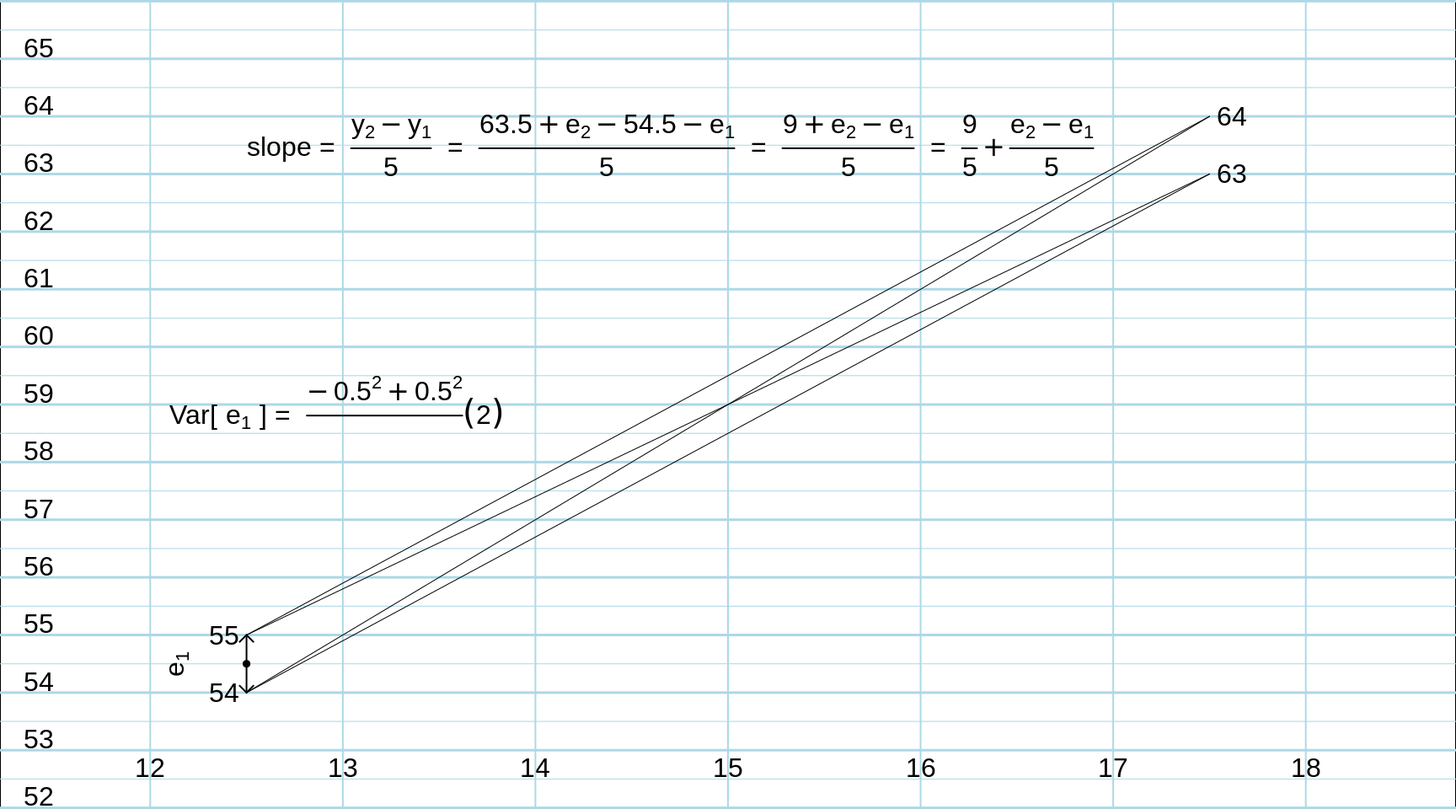
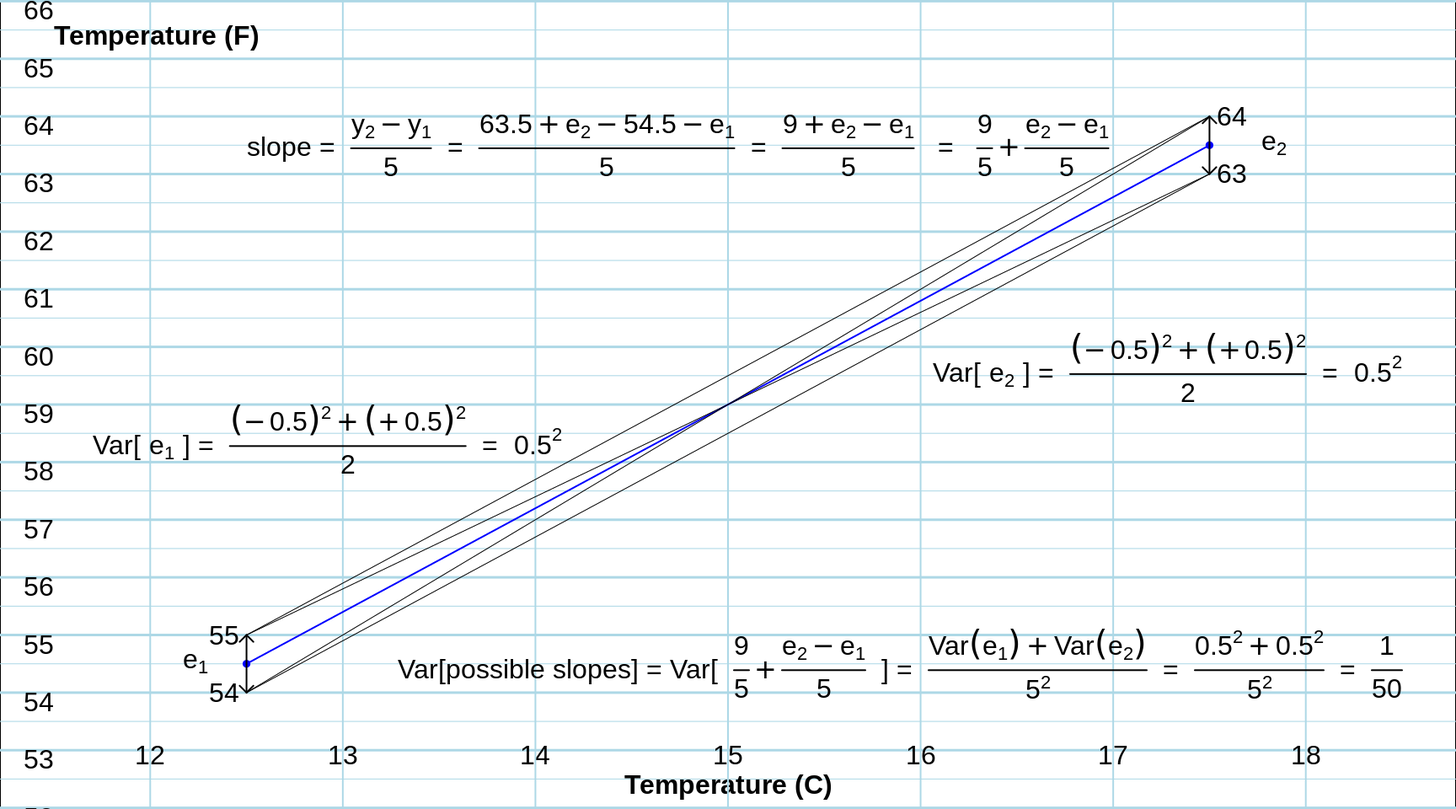
Update the book

diff --git a/RandomVariables.html b/RandomVariables.html
@@ -200,6 +200,7 @@ code > span.in { color: #60a0b0; font-weight: bold; font-style: italic; } /* Inf
 <li class="chapter" data-level="12.7.3" data-path="RandomVariables.html"><a href="RandomVariables.html#difference-of-2-rvs"><i class="fa fa-check"></i><b>12.7.3</b> Difference of 2 RVs</a></li>
 </ul></li>
 <li class="chapter" data-level="12.8" data-path="RandomVariables.html"><a href="RandomVariables.html#linear-combinations-of-rvs-regression-slopes"><i class="fa fa-check"></i><b>12.8</b> Linear combinations of RVs (regression slopes)</a></li>
+<li class="chapter" data-level="12.9" data-path="RandomVariables.html"><a href="RandomVariables.html#summary-slides-1"><i class="fa fa-check"></i><b>12.9</b> Summary Slides</a></li>
 </ul></li>
 <li class="chapter" data-level="13" data-path="distributions.html"><a href="distributions.html"><i class="fa fa-check"></i><b>13</b> Distributions</a><ul>
 <li class="chapter" data-level="13.1" data-path="distributions.html"><a href="distributions.html#objectives-2"><i class="fa fa-check"></i><b>13.1</b> Objectives</a></li>
@@ -858,19 +859,24 @@ Figure 12.7: Differences in mean lengths of n randomly selected words from each 
 <p>In <em>non-experimental</em> research especially, the focus is typically on a fitted regression slope/coefficient, rather that on the simple difference <span class="math inline">\(\bar{y}_1\)</span> - <span class="math inline">\(\bar{y}_0\)</span> between the means of the <span class="math inline">\(y\)</span>s observed at each of two investigator-chosen values (<span class="math inline">\(X=1\)</span> and <span class="math inline">\(X=0\)</span>) of the determinant (<span class="math inline">\(X\)</span>) being studied.</p>
 <p>Even if the estimator does not have a closed form, the fitted slope(s)/coefficient(s) are linear combinations of the <span class="math inline">\(y\)</span>’s and the <span class="math inline">\(x\)</span>’s. Thus, since each of the <span class="math inline">\(n\)</span> <span class="math inline">\(y\)</span>’s contains a random element, the slope (<span class="math inline">\(\hat{\beta}\)</span>) is an <span class="math inline">\(x\)</span>-based linear combination of <span class="math inline">\(n\)</span> random variables.</p>
 <p>Thus one can view all variances (and thus all standard errors) in a unified way, and not have to learn separate laws for separate chapters. To see how this unified view avoids the typical ‘silo’ approach to statistical tecnniques, see <a href="http://www.medicine.mcgill.ca/epidemiology/hanley/Reprints/UniversalSampleSize.pdf">Sample Size, Precision and Power Calculations: A Unified Approach</a>. [Software developers who thrive on separate ‘niche’ markets are threatened by this parsimonious approach, just as are those who write 800-page textbooks with separate chapters for t-tests,l proportions, regression, multiple regression, logiostic regression, Cox regression, survival analysis,etc.]</p>
-<p>In the past, when introducing simple linear regression, it was common to learn the formula by heart, and use it compute by hand, the standard error for a fitted slope, namely <span class="math display">\[SE[ \hat{\beta} ] = \sqrt{\frac{\sum (y-\bar{y})(x-\bar{x})}{ \sum (x-\bar{x})^2}}.\]</span> Sadly, <a href="http://www.medicine.mcgill.ca/epidemiology/hanley/Reprints/SimpleMultipleLinearRegressionSampleSize.pdf">this formidable formula hides what is going on</a>.</p>
-<p>To truly understand what is going on, lets consider a very simple example. A student from a country that uses the Fahrenheit (F) system moves to Montreal, and wishes to know how to translate the outside temperature, expressed as the number of degrees Celsius (C) and shown in the Metro, and heard on radio stations, back into the F scale (s)he is familiar with. The student knows that the conversion is of the form F = <span class="math inline">\(\alpha\)</span> + <span class="math inline">\(\beta \times C\)</span> but, rather than look them up on Google, decides to estimate <span class="math inline">\(\alpha\)</span> and <span class="math inline">\(\beta\)</span> from pairs of (C,F) readings, taking the C readings directly from the Metro screen, and the F ones from his/her own portable thermometer. Suppose that the C readings are displayed to 1 decimal place, but that the F thermometer only displays the F to the nearest integer (or more generally, has a random error of -0.5F in half the occasions, and +0.5F in the other half).</p>
-<p>Now, knowing that one it just takes 2 data points to draw a line, the student takes F measurements on two occasions, once when the displayed temperature is 12.5 C and one when it is 17.5 C. (The student didn’t know that when the real temperature was very close to xx.5 F, it had a 50% chance of being rounded up to xx+1 F, thereby creating an error of +0.5 F, and a 50% chance of being rounded down to xx-1 F, and producing an error of -0.5 F.)</p>
-<p>Given that these two C settings correspond to 54.5 F and 63.5 F, what are the possible <span class="math inline">\(\beta\)</span> estimates? And, how variable are they?</p>
-<p>The 4 possibilities, shown below, are (64-55)/5, (64-54)/5, (63-55)/5, and (63-54)/5, or, when sorted, 1.6, 1.8, 1.8 and 2.0, each with probability 1/4, so that the variance is <span class="math display">\[Var[ \hat{\beta} ] =  \frac{(1.6 - 1.8)^2 + (1.8 - 1.8)^2  + (1.8 - 1.8)^2 + (2.0 - 1.8)^2}{4} = 0.02,\]</span> and the SE is <span class="math inline">\(\sqrt{0.02} = 0.14\)</span> degrees F per degree C.</p>
-<p>Also shown in the diagram is the ‘anatomy’ of the ‘random slope’. The possible slopes are displayed as a single expression in which the 2 random elements (i.e the 2 random variables, or the two ‘errors’ e<span class="math inline">\(_1\)</span> and e<span class="math inline">\(_2\)</span>) are isolated. The random slope is in the form of a constant (9/5) plus another constant (1/5) times the difference of two independent random errors. Applying all of the variance rules above, we have that <span class="math display">\[Var[random  \ slope] = (1/5)^2 \times ( Var[e_1] + Var[e_2]).\]</span></p>
+<p>In the past, when first introduced to simple linear regression, it was common to learn the estimator formula and the Variance formula by heart, and use them to compute the fitted slope and the the standard error for a fitted slope by hand, <span class="math display">\[\hat{\beta} = \frac{\sum (y-\bar{y})(x-\bar{x})}{ \sum (x-\bar{x})^2} \ ; \ \ Var[ \hat{\beta} ] = \frac{\sigma_e^2}{ \sum (x-\bar{x})^2} \ ; \ SE[ \hat{\beta} ] \ = \sqrt{Var[ \hat{\beta} ]} \ .\]</span> In the variance formula, <span class="math inline">\(\sigma_e^2\)</span> is the variance in the ‘errors’ in the <span class="math inline">\(y\)</span>’s. In practice, we have to estimate this quantirty, but in our example, for disdactic purposes, we will pretend to ‘know’ its value.</p>
+<p>Sadly, <a href="http://www.medicine.mcgill.ca/epidemiology/hanley/Reprints/SimpleMultipleLinearRegressionSampleSize.pdf">these formidable formulaa hide what is going on</a>.</p>
+<p>To truly understand what is going on, lets consider a <strong>very simple example</strong> where we can <em>see</em> what is happening. A student from a country that uses the Fahrenheit (F) system moves to Montreal, and wishes to know how to translate the outside temperature, expressed as the number of degrees Celsius (C) and shown in the Metro, and heard on radio stations, back into the F scale (s)he is familiar with. The student knows that the conversion is of the form F = <span class="math inline">\(\alpha\)</span> + <span class="math inline">\(\beta \times C\)</span> but, rather than look them up on Google, decides to estimate <span class="math inline">\(\alpha\)</span> and <span class="math inline">\(\beta\)</span> from pairs of (C,F) readings, taking the C readings directly from the Metro screen, and the F ones from his/her own portable thermometer. Suppose that the C readings are displayed to 1 decimal place, but that the F thermometer only displays the F to the nearest integer.</p>
+<p>Now, knowing that one it just takes 2 data points to draw a line, the student takes F measurements on two occasions, once when the displayed temperature is 12.5 C and one when it is 17.5 C. (The student didn’t know that when the real temperature was very close to xx.5 F, it had a 50% chance of being rounded up to xx+1 F, thereby creating an error of +0.5 F, and a 50% chance of being rounded down to xx-1 F, and producing an error of -0.5 F. Thus, the variance of each error is <span class="math inline">\((-0.5)^2 \times (1/2)\)</span> + <span class="math inline">\((+0.5)^2 \times (1/2)\)</span> = <span class="math inline">\(0.5^2,\)</span> and the SD is 0.5. (In the computer exercises, we will treat a broader type of random errors in the F readings).</p>
+<p>Given that these two C settings correspond to 54.5 F and 63.5 F, but that the true temperature may be slightly on one side or the other of thse two values, what are the possible <span class="math inline">\(\beta\)</span> estimates? And, how variable would they be?</p>
+<p>The 4 possibilities, shown as the slopes of the 4 fitted lines shown in black below, are (64-55)/5, (64-54)/5, (63-55)/5, and (63-54)/5, or, when sorted, 1.6, 1.8, 1.8 and 2.0 degrees F per degree C, each with probability 1/4, so that the variance of the equally likely slopes is <span class="math display">\[Var[ \hat{\beta} ] =  \frac{(1.6 - 1.8)^2 + (1.8 - 1.8)^2  + (1.8 - 1.8)^2 + (2.0 - 1.8)^2}{4} = \frac{1}{50} \ =  \ 0.02,\]</span> and the SE is <span class="math inline">\(\sqrt{0.02} = 0.14\)</span> degrees F per degree C.</p>
+<p>Also shown in the diagram is the <strong>‘anatomy’ of the ‘random slope’</strong>. The possible slopes are displayed as a single expression in which the 2 random elements (i.e the 2 random variables, or the two ‘errors’ e<span class="math inline">\(_1\)</span> and e<span class="math inline">\(_2\)</span>) are isolated. The random slope is in the form of a constant (9/5) plus another constant (1/5) times the difference of two independent random errors. Applying all of the variance rules above, we have that <span class="math display">\[Var[random  \ slope] = (1/5)^2 \times ( Var[e_1] + Var[e_2])  \ = \ \frac{1}{50} \ .\]</span></p>
 <div class="figure" style="text-align: center"><span id="fig:unnamed-chunk-63"></span>
-<img src="statbook_files/figure-html/unnamed-chunk-63-1.png" alt="Estimating the using s." width="864" />
+<img src="statbook_files/figure-html/unnamed-chunk-63-1.png" alt="The 4  lines (in black) fitted to the 4 possible and equally likely pairs of data points (The  &lt;unknown to us&gt; 'true' values are shown in blue). By algebraicly isolating the contributions of the 2 random errors in F to the variation in the 4 slopes, the variance of the (random) slopes is easily computed using the laws for the variance of a combination of 2 independent random variables." width="864" />
 <p class="caption">
-Figure 12.8: Estimating the using s.
+Figure 12.8: The 4 lines (in black) fitted to the 4 possible and equally likely pairs of data points (The <unknown to us> ‘true’ values are shown in blue). By algebraicly isolating the contributions of the 2 random errors in F to the variation in the 4 slopes, the variance of the (random) slopes is easily computed using the laws for the variance of a combination of 2 independent random variables.
 </p>
 </div>
-<p>For heuristic reasons, consider first the simplest possible case of just (n =) 2 X locations, Y errors that could equally be +1 or -1 (so that se2 = 1), and estimating a slope (whose true value is B = 4, say) by dividing the observed difference in the 2 y’s by the difference in their X locations. We use ‘y’ to denote an ‘error-containing’ Y. If the two Xs are 1 unit apart, then with errors of +/-1 the resulting values of y will differ by one of (4 - 1 - 1) = 2, (4 - 1 + 1) = 4, (4 +1 - 1) = 4, and (4 + 1 + 1) = 6, each with equal probability. So, the slope estimate is equally likely to be 2, 4, 4, or 6; thus, the error in this estimate is equally likelytobe-2,0,0,or2;andsothesamplingvariancewillbe50%of22 +50%of02 =2.If instead, the Xs are two units apart (as they are in the ‘LONG1’ design), so that 2B = 8, the four equally likely slope estimates will now be 6/2, 8/2, 8/2, and 10/2. Thus, the errors in these estimates are equally likely to be -1, 0, 0, and 1, and so their variance will be 50% of (1)2 + 50% of 02 = 1/ 2, four times smaller than if the readings were only 1 X unit apart.</p>
+<p>The important point of this simple regression example is that even though in practice there would be many more data points, the principle/law used to calculate the sampling variation of a slope based on any number of datapoints remains the same: the slope is still (in this case) an <span class="math inline">\(x\)</span>-based linear combination of <span class="math inline">\(y\)</span>’s, and thus an <span class="math inline">\(x\)</span>-based linear combination of random errors – or more broadly of random deviations from the <span class="math inline">\(x\)</span>-conditional means of the ‘<span class="math inline">\(Y\)</span>’ variables. We will return later to all of the factors that influence the narrowness/width of sampling distributions generally, but you can maybe already see from the ‘algebraicly isolated’ representation of the slope that the more datapoints – and the wider apart they are on the <span class="math inline">\(x\)</span> axis and the smaller the magnitudes of the errors — the more reproducible the slope. The influence of this latter factors is less evident in the textbook formula for the Variance and the SE. This little exercise (next) should help you fiogure out how the factors come into it. JH also covers these is [this piece].</p>
+<p><strong>Exercise</strong>: (i) What if the student took the F readings at two C values that are 10 C (rather than 5 C) apart?, i.e. at 12.5 C and 22.5 C? How would the Variance and the SE be altered? (ii) What if the student took the F readings at four equally spaced C values 5 C apart, i.e., at 7.5 C, 12.5 C, 17.5C and 22.5 C?. If you were limited to <span class="math inline">\(n\)</span> C values, how would you decide where to place them? (iii) What if, rather than <span class="math inline">\(0.5^2\)</span>, the ‘errors’ in F had a variance of <span class="math inline">\(1^2\)</span> or <span class="math inline">\(2^2\)</span>?</p>
+</div>
+<div id="summary-slides-1" class="section level2">
+<h2><span class="header-section-number">12.9</span> Summary Slides</h2>
 
 </div>
 </div>

diff --git a/CI.html b/CI.html
@@ -200,6 +200,7 @@ code > span.in { color: #60a0b0; font-weight: bold; font-style: italic; } /* Inf
 <li class="chapter" data-level="12.7.3" data-path="RandomVariables.html"><a href="RandomVariables.html#difference-of-2-rvs"><i class="fa fa-check"></i><b>12.7.3</b> Difference of 2 RVs</a></li>
 </ul></li>
 <li class="chapter" data-level="12.8" data-path="RandomVariables.html"><a href="RandomVariables.html#linear-combinations-of-rvs-regression-slopes"><i class="fa fa-check"></i><b>12.8</b> Linear combinations of RVs (regression slopes)</a></li>
+<li class="chapter" data-level="12.9" data-path="RandomVariables.html"><a href="RandomVariables.html#summary-slides-1"><i class="fa fa-check"></i><b>12.9</b> Summary Slides</a></li>
 </ul></li>
 <li class="chapter" data-level="13" data-path="distributions.html"><a href="distributions.html"><i class="fa fa-check"></i><b>13</b> Distributions</a><ul>
 <li class="chapter" data-level="13.1" data-path="distributions.html"><a href="distributions.html#objectives-2"><i class="fa fa-check"></i><b>13.1</b> Objectives</a></li>

diff --git a/Probability.html b/Probability.html
@@ -200,6 +200,7 @@ code > span.in { color: #60a0b0; font-weight: bold; font-style: italic; } /* Inf
 <li class="chapter" data-level="12.7.3" data-path="RandomVariables.html"><a href="RandomVariables.html#difference-of-2-rvs"><i class="fa fa-check"></i><b>12.7.3</b> Difference of 2 RVs</a></li>
 </ul></li>
 <li class="chapter" data-level="12.8" data-path="RandomVariables.html"><a href="RandomVariables.html#linear-combinations-of-rvs-regression-slopes"><i class="fa fa-check"></i><b>12.8</b> Linear combinations of RVs (regression slopes)</a></li>
+<li class="chapter" data-level="12.9" data-path="RandomVariables.html"><a href="RandomVariables.html#summary-slides-1"><i class="fa fa-check"></i><b>12.9</b> Summary Slides</a></li>
 </ul></li>
 <li class="chapter" data-level="13" data-path="distributions.html"><a href="distributions.html"><i class="fa fa-check"></i><b>13</b> Distributions</a><ul>
 <li class="chapter" data-level="13.1" data-path="distributions.html"><a href="distributions.html#objectives-2"><i class="fa fa-check"></i><b>13.1</b> Objectives</a></li>

diff --git a/computing01.html b/computing01.html
@@ -200,6 +200,7 @@ code > span.in { color: #60a0b0; font-weight: bold; font-style: italic; } /* Inf
 <li class="chapter" data-level="12.7.3" data-path="RandomVariables.html"><a href="RandomVariables.html#difference-of-2-rvs"><i class="fa fa-check"></i><b>12.7.3</b> Difference of 2 RVs</a></li>
 </ul></li>
 <li class="chapter" data-level="12.8" data-path="RandomVariables.html"><a href="RandomVariables.html#linear-combinations-of-rvs-regression-slopes"><i class="fa fa-check"></i><b>12.8</b> Linear combinations of RVs (regression slopes)</a></li>
+<li class="chapter" data-level="12.9" data-path="RandomVariables.html"><a href="RandomVariables.html#summary-slides-1"><i class="fa fa-check"></i><b>12.9</b> Summary Slides</a></li>
 </ul></li>
 <li class="chapter" data-level="13" data-path="distributions.html"><a href="distributions.html"><i class="fa fa-check"></i><b>13</b> Distributions</a><ul>
 <li class="chapter" data-level="13.1" data-path="distributions.html"><a href="distributions.html#objectives-2"><i class="fa fa-check"></i><b>13.1</b> Objectives</a></li>

diff --git a/computing02.html b/computing02.html
@@ -200,6 +200,7 @@ code > span.in { color: #60a0b0; font-weight: bold; font-style: italic; } /* Inf
 <li class="chapter" data-level="12.7.3" data-path="RandomVariables.html"><a href="RandomVariables.html#difference-of-2-rvs"><i class="fa fa-check"></i><b>12.7.3</b> Difference of 2 RVs</a></li>
 </ul></li>
 <li class="chapter" data-level="12.8" data-path="RandomVariables.html"><a href="RandomVariables.html#linear-combinations-of-rvs-regression-slopes"><i class="fa fa-check"></i><b>12.8</b> Linear combinations of RVs (regression slopes)</a></li>
+<li class="chapter" data-level="12.9" data-path="RandomVariables.html"><a href="RandomVariables.html#summary-slides-1"><i class="fa fa-check"></i><b>12.9</b> Summary Slides</a></li>
 </ul></li>
 <li class="chapter" data-level="13" data-path="distributions.html"><a href="distributions.html"><i class="fa fa-check"></i><b>13</b> Distributions</a><ul>
 <li class="chapter" data-level="13.1" data-path="distributions.html"><a href="distributions.html#objectives-2"><i class="fa fa-check"></i><b>13.1</b> Objectives</a></li>

diff --git a/computing03.html b/computing03.html
@@ -200,6 +200,7 @@ code > span.in { color: #60a0b0; font-weight: bold; font-style: italic; } /* Inf
 <li class="chapter" data-level="12.7.3" data-path="RandomVariables.html"><a href="RandomVariables.html#difference-of-2-rvs"><i class="fa fa-check"></i><b>12.7.3</b> Difference of 2 RVs</a></li>
 </ul></li>
 <li class="chapter" data-level="12.8" data-path="RandomVariables.html"><a href="RandomVariables.html#linear-combinations-of-rvs-regression-slopes"><i class="fa fa-check"></i><b>12.8</b> Linear combinations of RVs (regression slopes)</a></li>
+<li class="chapter" data-level="12.9" data-path="RandomVariables.html"><a href="RandomVariables.html#summary-slides-1"><i class="fa fa-check"></i><b>12.9</b> Summary Slides</a></li>
 </ul></li>
 <li class="chapter" data-level="13" data-path="distributions.html"><a href="distributions.html"><i class="fa fa-check"></i><b>13</b> Distributions</a><ul>
 <li class="chapter" data-level="13.1" data-path="distributions.html"><a href="distributions.html#objectives-2"><i class="fa fa-check"></i><b>13.1</b> Objectives</a></li>

diff --git a/computing04.html b/computing04.html
@@ -200,6 +200,7 @@ code > span.in { color: #60a0b0; font-weight: bold; font-style: italic; } /* Inf
 <li class="chapter" data-level="12.7.3" data-path="RandomVariables.html"><a href="RandomVariables.html#difference-of-2-rvs"><i class="fa fa-check"></i><b>12.7.3</b> Difference of 2 RVs</a></li>
 </ul></li>
 <li class="chapter" data-level="12.8" data-path="RandomVariables.html"><a href="RandomVariables.html#linear-combinations-of-rvs-regression-slopes"><i class="fa fa-check"></i><b>12.8</b> Linear combinations of RVs (regression slopes)</a></li>
+<li class="chapter" data-level="12.9" data-path="RandomVariables.html"><a href="RandomVariables.html#summary-slides-1"><i class="fa fa-check"></i><b>12.9</b> Summary Slides</a></li>
 </ul></li>
 <li class="chapter" data-level="13" data-path="distributions.html"><a href="distributions.html"><i class="fa fa-check"></i><b>13</b> Distributions</a><ul>
 <li class="chapter" data-level="13.1" data-path="distributions.html"><a href="distributions.html#objectives-2"><i class="fa fa-check"></i><b>13.1</b> Objectives</a></li>

diff --git a/contrast2Lambdaparas.html b/contrast2Lambdaparas.html
@@ -200,6 +200,7 @@ code > span.in { color: #60a0b0; font-weight: bold; font-style: italic; } /* Inf
 <li class="chapter" data-level="12.7.3" data-path="RandomVariables.html"><a href="RandomVariables.html#difference-of-2-rvs"><i class="fa fa-check"></i><b>12.7.3</b> Difference of 2 RVs</a></li>
 </ul></li>
 <li class="chapter" data-level="12.8" data-path="RandomVariables.html"><a href="RandomVariables.html#linear-combinations-of-rvs-regression-slopes"><i class="fa fa-check"></i><b>12.8</b> Linear combinations of RVs (regression slopes)</a></li>
+<li class="chapter" data-level="12.9" data-path="RandomVariables.html"><a href="RandomVariables.html#summary-slides-1"><i class="fa fa-check"></i><b>12.9</b> Summary Slides</a></li>
 </ul></li>
 <li class="chapter" data-level="13" data-path="distributions.html"><a href="distributions.html"><i class="fa fa-check"></i><b>13</b> Distributions</a><ul>
 <li class="chapter" data-level="13.1" data-path="distributions.html"><a href="distributions.html#objectives-2"><i class="fa fa-check"></i><b>13.1</b> Objectives</a></li>

diff --git a/contrast2Muparas.html b/contrast2Muparas.html
@@ -200,6 +200,7 @@ code > span.in { color: #60a0b0; font-weight: bold; font-style: italic; } /* Inf
 <li class="chapter" data-level="12.7.3" data-path="RandomVariables.html"><a href="RandomVariables.html#difference-of-2-rvs"><i class="fa fa-check"></i><b>12.7.3</b> Difference of 2 RVs</a></li>
 </ul></li>
 <li class="chapter" data-level="12.8" data-path="RandomVariables.html"><a href="RandomVariables.html#linear-combinations-of-rvs-regression-slopes"><i class="fa fa-check"></i><b>12.8</b> Linear combinations of RVs (regression slopes)</a></li>
+<li class="chapter" data-level="12.9" data-path="RandomVariables.html"><a href="RandomVariables.html#summary-slides-1"><i class="fa fa-check"></i><b>12.9</b> Summary Slides</a></li>
 </ul></li>
 <li class="chapter" data-level="13" data-path="distributions.html"><a href="distributions.html"><i class="fa fa-check"></i><b>13</b> Distributions</a><ul>
 <li class="chapter" data-level="13.1" data-path="distributions.html"><a href="distributions.html#objectives-2"><i class="fa fa-check"></i><b>13.1</b> Objectives</a></li>

diff --git a/contrast2Piparas.html b/contrast2Piparas.html
@@ -200,6 +200,7 @@ code > span.in { color: #60a0b0; font-weight: bold; font-style: italic; } /* Inf
 <li class="chapter" data-level="12.7.3" data-path="RandomVariables.html"><a href="RandomVariables.html#difference-of-2-rvs"><i class="fa fa-check"></i><b>12.7.3</b> Difference of 2 RVs</a></li>
 </ul></li>
 <li class="chapter" data-level="12.8" data-path="RandomVariables.html"><a href="RandomVariables.html#linear-combinations-of-rvs-regression-slopes"><i class="fa fa-check"></i><b>12.8</b> Linear combinations of RVs (regression slopes)</a></li>
+<li class="chapter" data-level="12.9" data-path="RandomVariables.html"><a href="RandomVariables.html#summary-slides-1"><i class="fa fa-check"></i><b>12.9</b> Summary Slides</a></li>
 </ul></li>
 <li class="chapter" data-level="13" data-path="distributions.html"><a href="distributions.html"><i class="fa fa-check"></i><b>13</b> Distributions</a><ul>
 <li class="chapter" data-level="13.1" data-path="distributions.html"><a href="distributions.html#objectives-2"><i class="fa fa-check"></i><b>13.1</b> Objectives</a></li>

diff --git a/dalite.html b/dalite.html
@@ -200,6 +200,7 @@ code > span.in { color: #60a0b0; font-weight: bold; font-style: italic; } /* Inf
 <li class="chapter" data-level="12.7.3" data-path="RandomVariables.html"><a href="RandomVariables.html#difference-of-2-rvs"><i class="fa fa-check"></i><b>12.7.3</b> Difference of 2 RVs</a></li>
 </ul></li>
 <li class="chapter" data-level="12.8" data-path="RandomVariables.html"><a href="RandomVariables.html#linear-combinations-of-rvs-regression-slopes"><i class="fa fa-check"></i><b>12.8</b> Linear combinations of RVs (regression slopes)</a></li>
+<li class="chapter" data-level="12.9" data-path="RandomVariables.html"><a href="RandomVariables.html#summary-slides-1"><i class="fa fa-check"></i><b>12.9</b> Summary Slides</a></li>
 </ul></li>
 <li class="chapter" data-level="13" data-path="distributions.html"><a href="distributions.html"><i class="fa fa-check"></i><b>13</b> Distributions</a><ul>
 <li class="chapter" data-level="13.1" data-path="distributions.html"><a href="distributions.html#objectives-2"><i class="fa fa-check"></i><b>13.1</b> Objectives</a></li>

diff --git a/distributions.html b/distributions.html
@@ -200,6 +200,7 @@ code > span.in { color: #60a0b0; font-weight: bold; font-style: italic; } /* Inf
 <li class="chapter" data-level="12.7.3" data-path="RandomVariables.html"><a href="RandomVariables.html#difference-of-2-rvs"><i class="fa fa-check"></i><b>12.7.3</b> Difference of 2 RVs</a></li>
 </ul></li>
 <li class="chapter" data-level="12.8" data-path="RandomVariables.html"><a href="RandomVariables.html#linear-combinations-of-rvs-regression-slopes"><i class="fa fa-check"></i><b>12.8</b> Linear combinations of RVs (regression slopes)</a></li>
+<li class="chapter" data-level="12.9" data-path="RandomVariables.html"><a href="RandomVariables.html#summary-slides-1"><i class="fa fa-check"></i><b>12.9</b> Summary Slides</a></li>
 </ul></li>
 <li class="chapter" data-level="13" data-path="distributions.html"><a href="distributions.html"><i class="fa fa-check"></i><b>13</b> Distributions</a><ul>
 <li class="chapter" data-level="13.1" data-path="distributions.html"><a href="distributions.html#objectives-2"><i class="fa fa-check"></i><b>13.1</b> Objectives</a></li>
